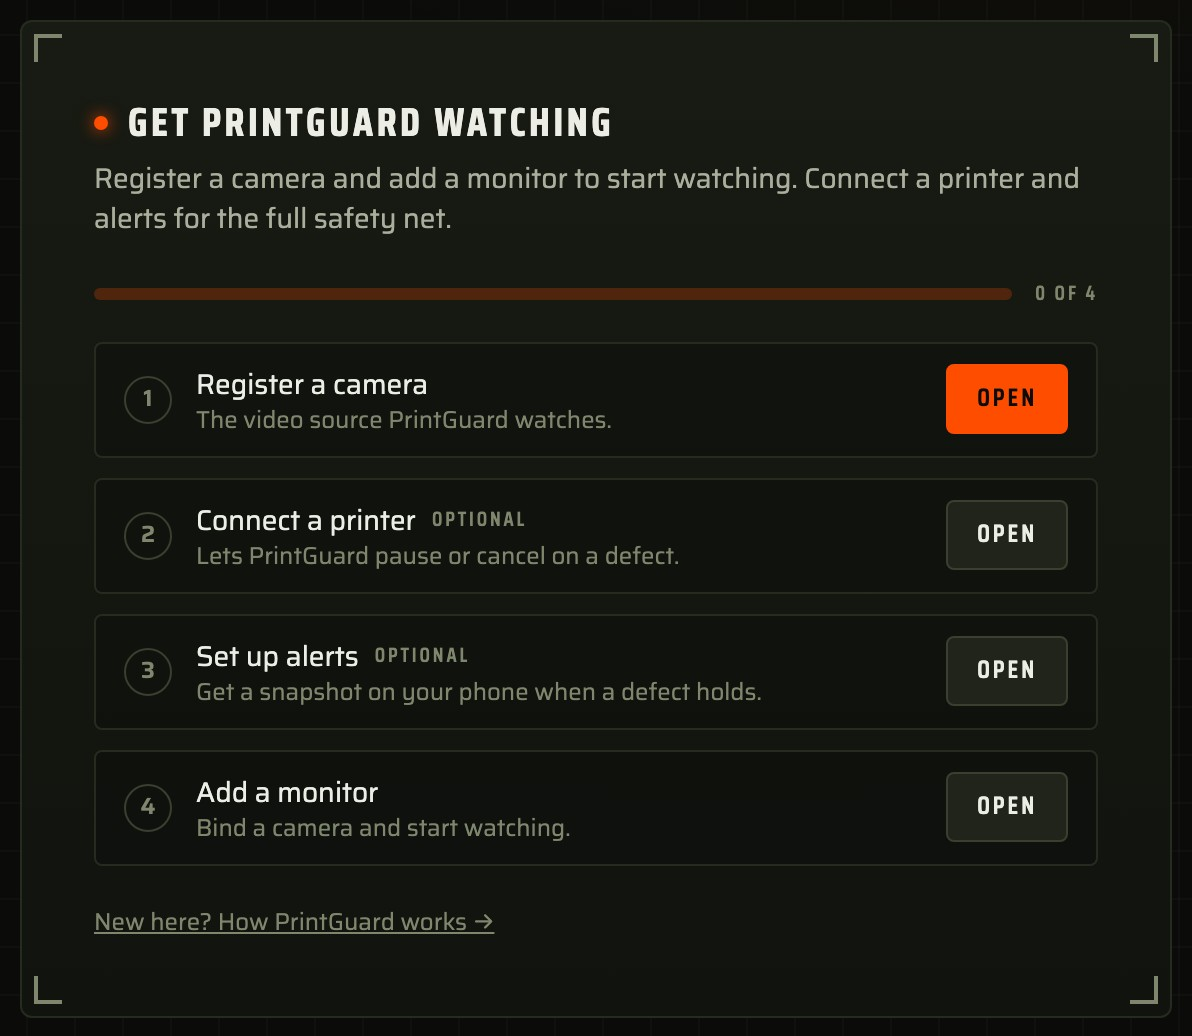
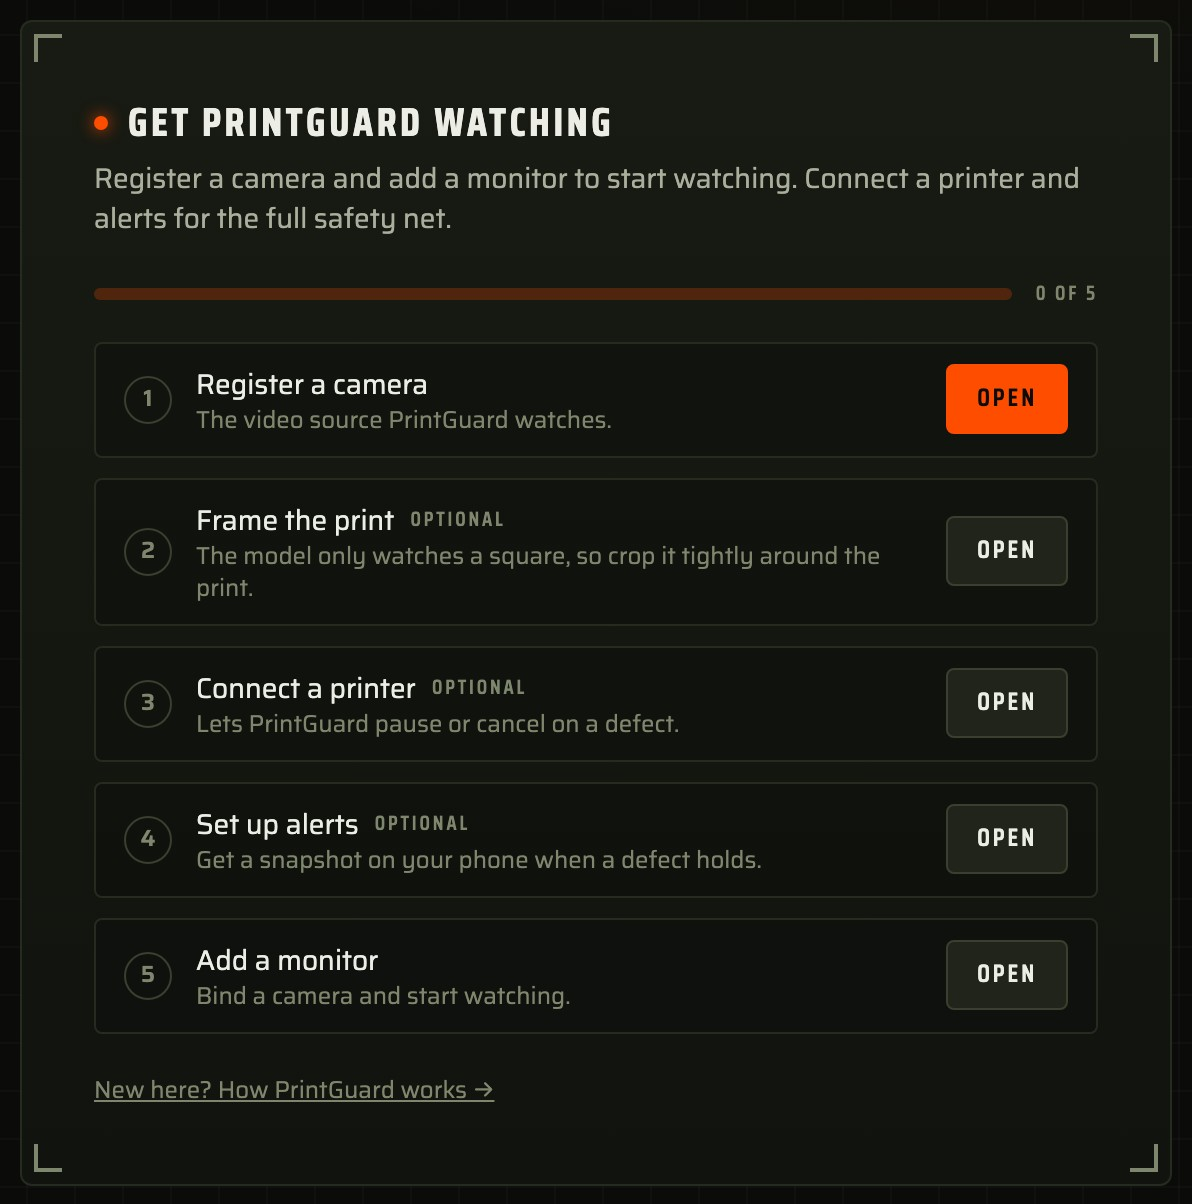
Add framing the print to the getting-started checklist and guide

diff --git a/web/src/components/GettingStarted.tsx b/web/src/components/GettingStarted.tsx
@@ -8,6 +8,7 @@ interface Step {
   why: string;
   done: boolean;
   dialog: DialogKind;
+  focusCameraId?: string;
   optional?: boolean;
 }
 
@@ -34,7 +35,7 @@ function StepRow({ step, primary }: { step: Step; primary: boolean }) {
       ) : (
         <button
           className={`btn shrink-0 ${primary ? "btn-primary" : ""}`}
-          onClick={() => openDialog(step.dialog)}
+          onClick={() => openDialog(step.dialog, step.focusCameraId)}
         >
           Open
         </button>
@@ -57,6 +58,15 @@ export function GettingStarted() {
     },
     {
       n: 2,
+      title: "Frame the print",
+      why: "The model watches a square, so crop it to the print.",
+      done: engine.cameras.some((c) => c.crop),
+      dialog: "cameras",
+      focusCameraId: engine.cameras[0]?.id,
+      optional: true,
+    },
+    {
+      n: 3,
       title: "Connect a printer",
       why: "Lets PrintGuard pause or cancel on a defect.",
       done: engine.printers.length > 0,
@@ -64,7 +74,7 @@ export function GettingStarted() {
       optional: true,
     },
     {
-      n: 3,
+      n: 4,
       title: "Set up alerts",
       why: "Get a snapshot on your phone when a defect holds.",
       done: Object.keys(engine.settings.notifiers).length > 0,
@@ -72,7 +82,7 @@ export function GettingStarted() {
       optional: true,
     },
     {
-      n: 4,
+      n: 5,
       title: "Add a monitor",
       why: "Bind a camera and start watching.",
       done: engine.monitors.length > 0,

diff --git a/web/src/guide.tsx b/web/src/guide.tsx
@@ -139,7 +139,8 @@ export const GUIDE: GuideSection[] = [
       <>
         A camera is any video source PrintGuard can read, so a USB or CSI device, an RTSP, MJPEG or
         WebRTC (WHEP) stream URL, or a camera published from this device. Printers that expose a
-        webcam register theirs automatically.
+        webcam register theirs automatically. The model only watches a square of each view, shown
+        in the camera's crop editor, so crop it tightly around the print.
       </>
     ),
     action: { label: "Open cameras", dialog: "cameras" },
